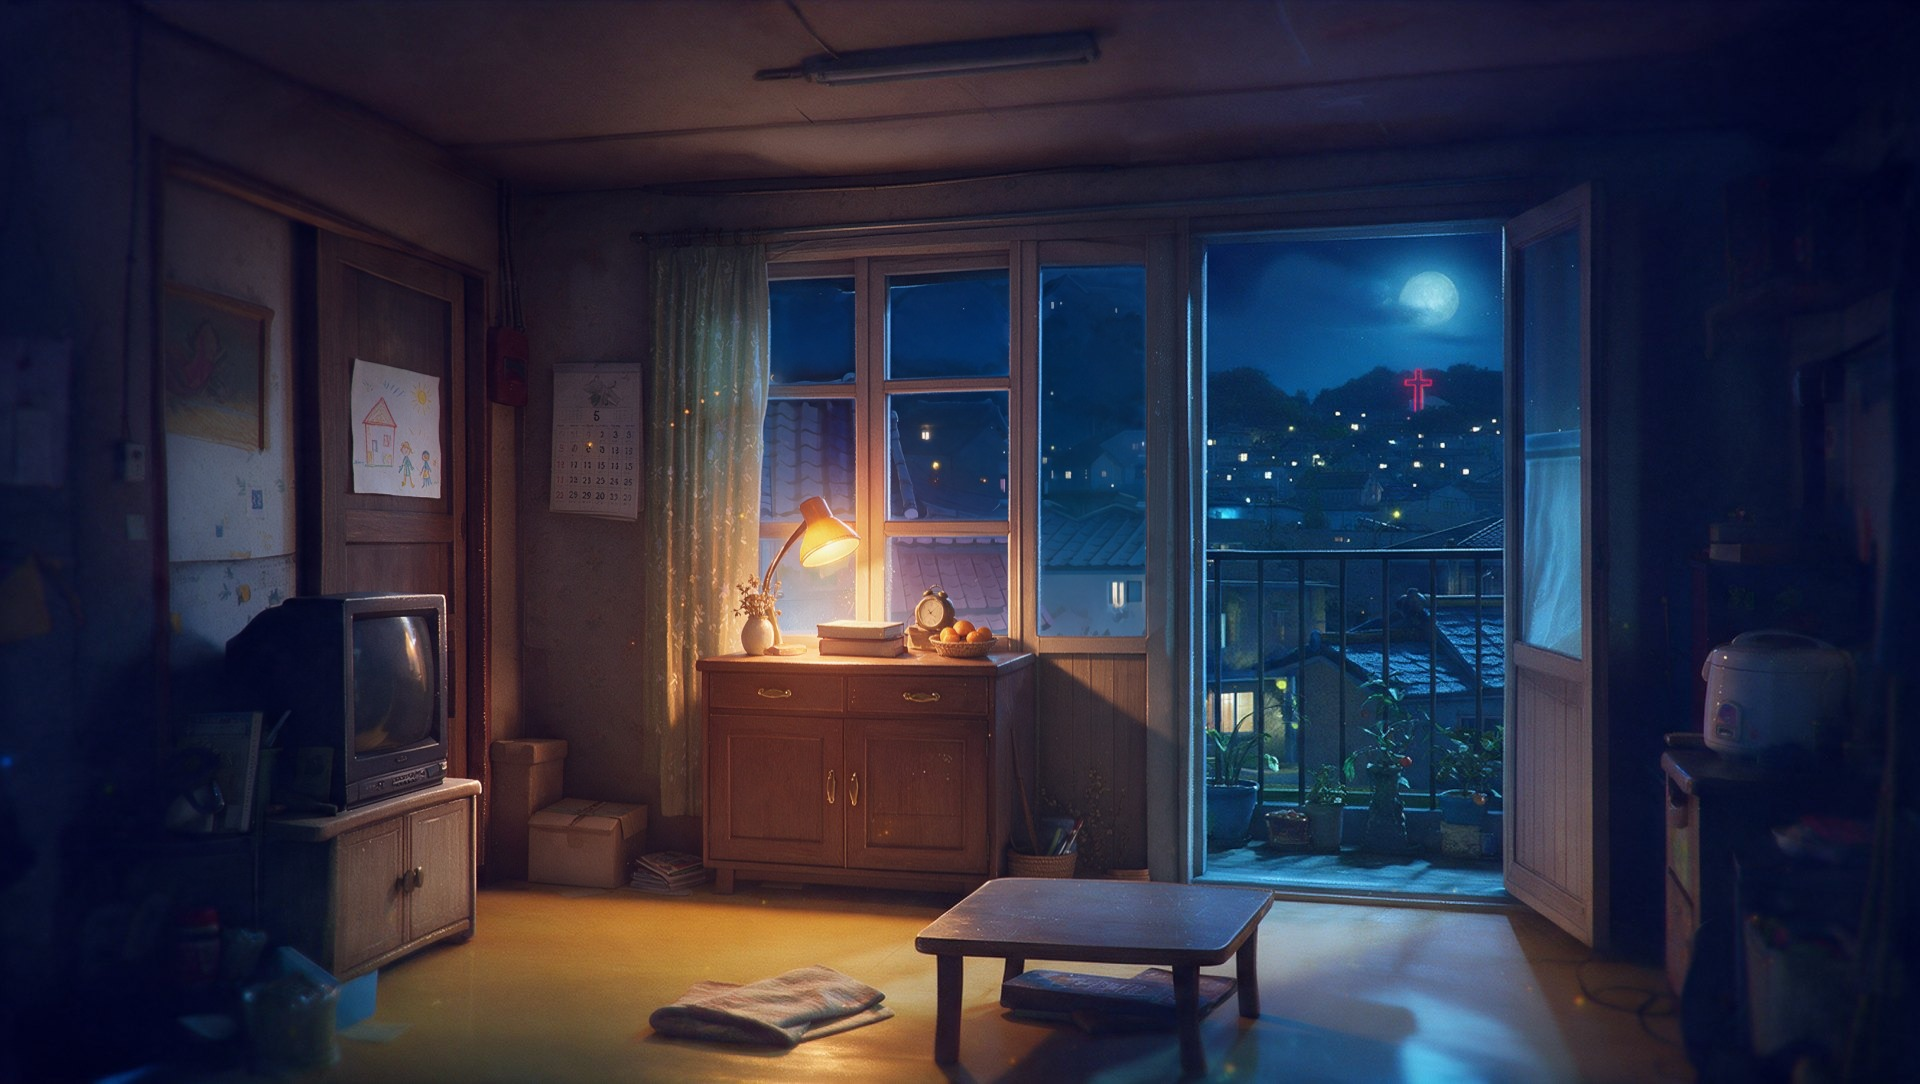
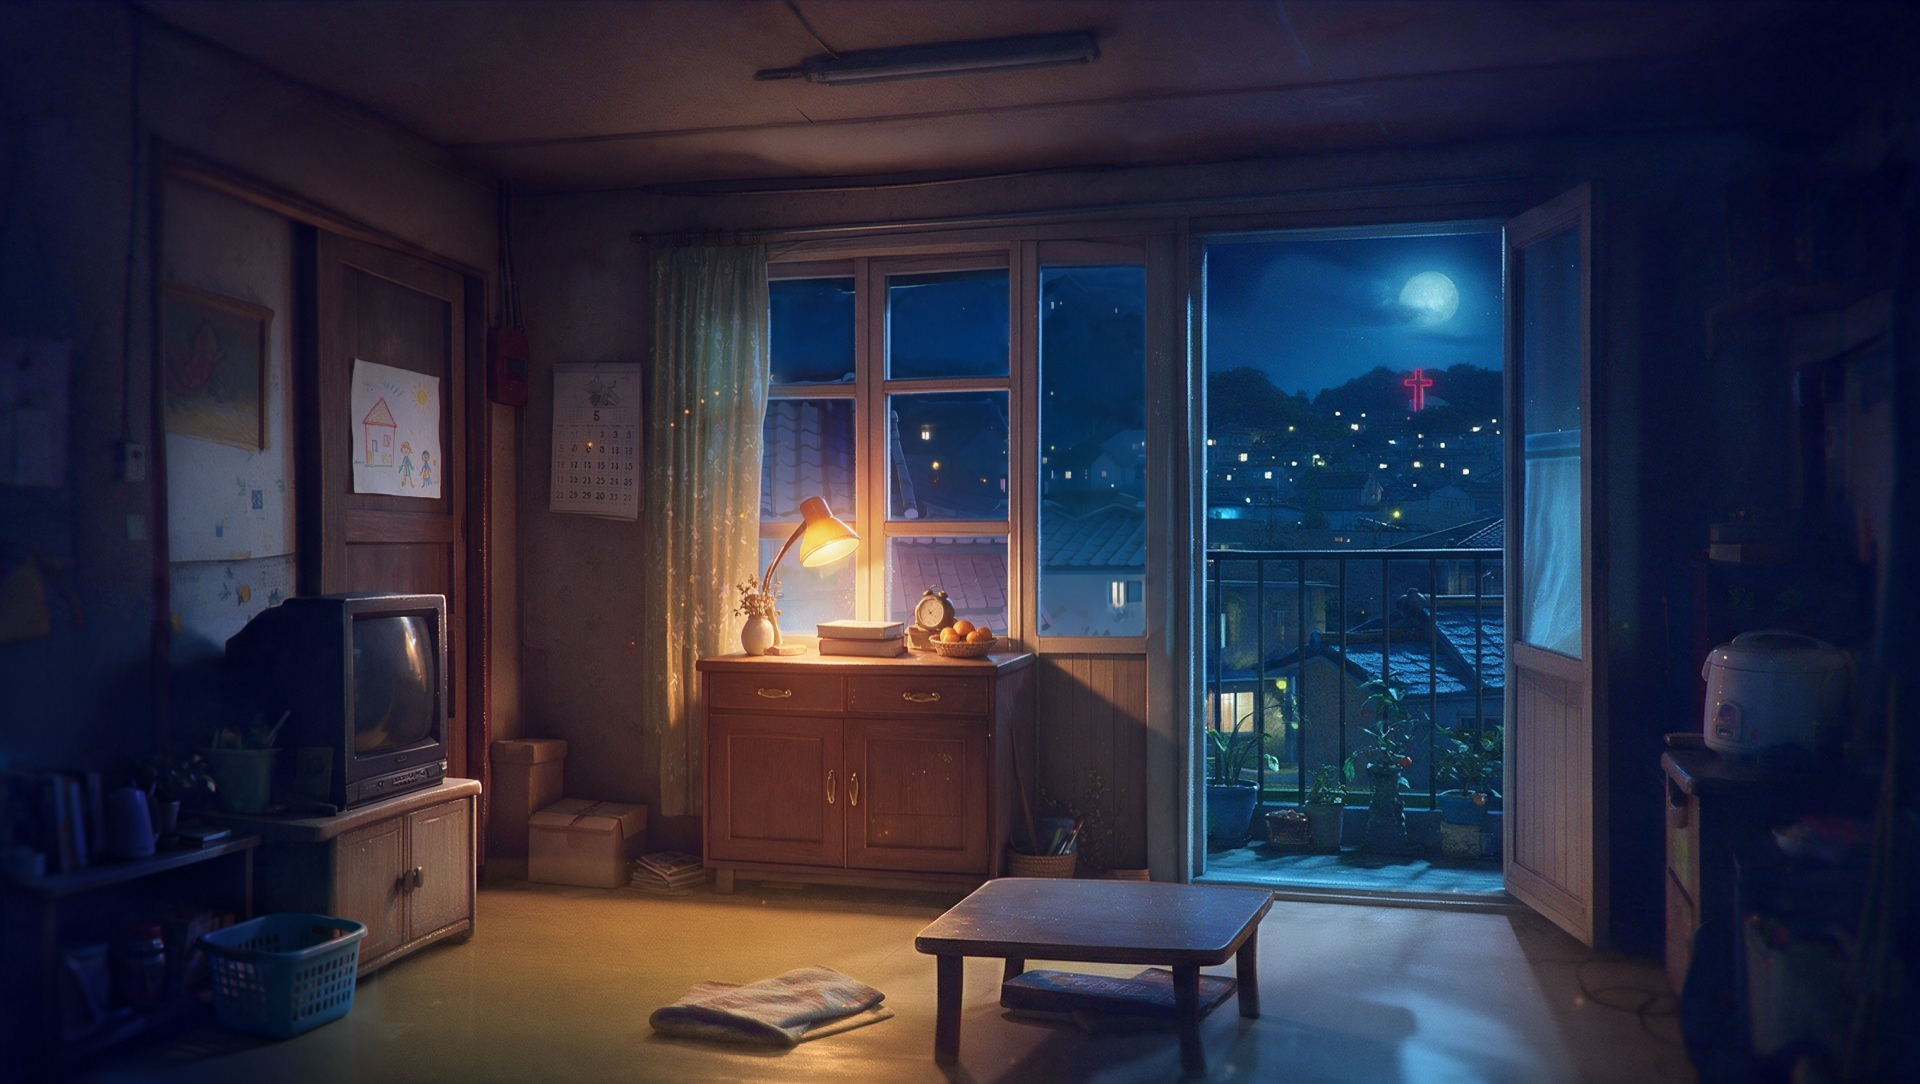
Korea: tidy corner shelf + basket (Seedream 1.5k, relit to room light), unified floor colour with soft warm-to-cool falloff
Claude-Session: https://claude.ai/code/session_01WmePPEVtycNtDwciTC66yT

diff --git a/public/index.html b/public/index.html
@@ -449,7 +449,7 @@ function framesFor(key){if(!LABFR||!LABFR[key])return null;if(FRM[key])return FR
     return Promise.all([...[...Array(j.n).keys()].flatMap(i=>[loadTex(dir+'/on_'+id(i)+'.jpg'),loadTex(dir+'/off_'+id(i)+'.jpg')]),
       ...[...Array(j.n-1).keys()].flatMap(i=>[loadTex(dir+'/fab_'+id(i)+'.png'),loadTex(dir+'/fba_'+id(i)+'.png')])])}).then(a=>{const m=2*F.n,A=a.slice(0,m),B=a.slice(m);
       F.on=A.filter((_,i)=>i%2==0);F.off=A.filter((_,i)=>i%2==1);F.fab=B.filter((_,i)=>i%2==0);F.fba=B.filter((_,i)=>i%2==1);F.ready=true}).catch(()=>{});return F}
-function texFor(key){if(!cache.has(key))cache.set(key,Promise.all(FILES.map(n=>loadTex(((LAB&&LAB[key])||key)+'/'+n+(/^(out_|mask|plate_|maps|cup_|shadow)/.test(n)?'?v=33':'')))).then(a=>Object.fromEntries(FILES.map((n,i)=>[n.split('.')[0],a[i]]))));return cache.get(key)}
+function texFor(key){if(!cache.has(key))cache.set(key,Promise.all(FILES.map(n=>loadTex(((LAB&&LAB[key])||key)+'/'+n+(/^(out_|mask|plate_|maps|cup_|shadow)/.test(n)?'?v=34':'')))).then(a=>Object.fromEntries(FILES.map((n,i)=>[n.split('.')[0],a[i]]))));return cache.get(key)}
 function evict(keep){for(const [k,p] of cache)if(!keep.includes(k)){cache.delete(k);p.then(T=>Object.values(T).forEach(t=>t.dispose()))}}
 const tvCan=document.createElement('canvas');tvCan.width=128;tvCan.height=96;const tvCtx=tvCan.getContext('2d');
 const tTV=new THREE.CanvasTexture(tvCan);tTV.minFilter=THREE.LinearFilter;tTV.generateMipmaps=false;

diff --git a/public/lab.html b/public/lab.html
@@ -450,7 +450,7 @@ function framesFor(key){if(!LABFR||!LABFR[key])return null;if(FRM[key])return FR
     return Promise.all([...[...Array(j.n).keys()].flatMap(i=>[loadTex(dir+'/on_'+id(i)+'.jpg'),loadTex(dir+'/off_'+id(i)+'.jpg')]),
       ...[...Array(j.n-1).keys()].flatMap(i=>[loadTex(dir+'/fab_'+id(i)+'.png'),loadTex(dir+'/fba_'+id(i)+'.png')])])}).then(a=>{const m=2*F.n,A=a.slice(0,m),B=a.slice(m);
       F.on=A.filter((_,i)=>i%2==0);F.off=A.filter((_,i)=>i%2==1);F.fab=B.filter((_,i)=>i%2==0);F.fba=B.filter((_,i)=>i%2==1);F.ready=true}).catch(()=>{});return F}
-function texFor(key){if(!cache.has(key))cache.set(key,Promise.all(FILES.map(n=>loadTex(((LAB&&LAB[key])||key)+'/'+n+(/^(out_|mask|plate_|maps|cup_|shadow)/.test(n)?'?v=33':'')))).then(a=>Object.fromEntries(FILES.map((n,i)=>[n.split('.')[0],a[i]]))));return cache.get(key)}
+function texFor(key){if(!cache.has(key))cache.set(key,Promise.all(FILES.map(n=>loadTex(((LAB&&LAB[key])||key)+'/'+n+(/^(out_|mask|plate_|maps|cup_|shadow)/.test(n)?'?v=34':'')))).then(a=>Object.fromEntries(FILES.map((n,i)=>[n.split('.')[0],a[i]]))));return cache.get(key)}
 function evict(keep){for(const [k,p] of cache)if(!keep.includes(k)){cache.delete(k);p.then(T=>Object.values(T).forEach(t=>t.dispose()))}}
 const tvCan=document.createElement('canvas');tvCan.width=128;tvCan.height=96;const tvCtx=tvCan.getContext('2d');
 const tTV=new THREE.CanvasTexture(tvCan);tTV.minFilter=THREE.LinearFilter;tTV.generateMipmaps=false;
